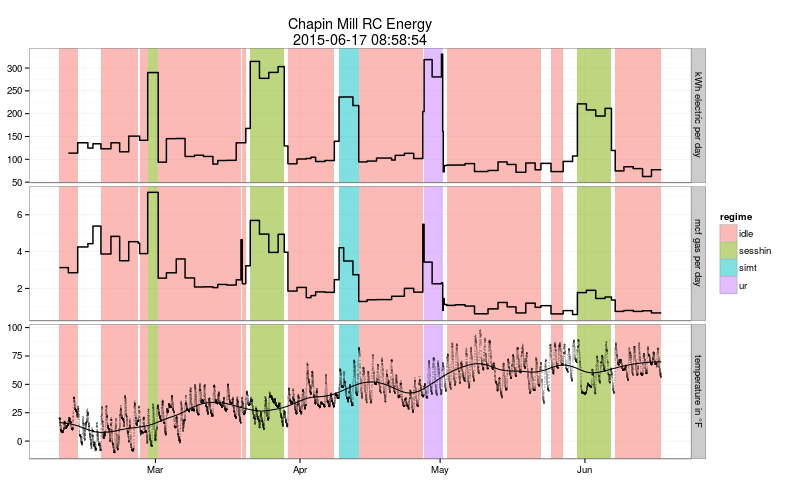
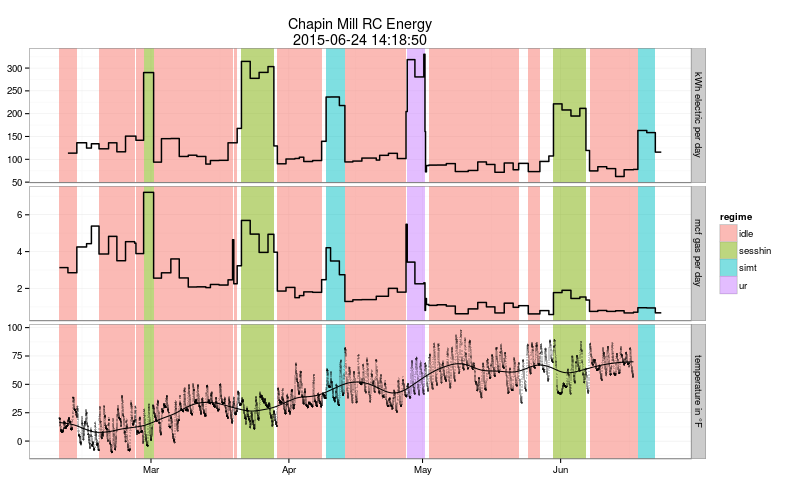
auto commit

Changed region(s): [[0.0625, 0.0625, 0.8438, 1.0]]

diff --git a/index.html b/index.html
@@ -4,7 +4,7 @@
 <html xmlns="http://www.w3.org/1999/xhtml" lang="en" xml:lang="en">
 <head>
 <title></title>
-<!-- 2015-06-17 Wed 08:59 -->
+<!-- 2015-06-24 Wed 14:19 -->
 <meta  http-equiv="Content-Type" content="text/html;charset=utf-8" />
 <meta  name="generator" content="Org-mode" />
 <style type="text/css">
@@ -221,13 +221,25 @@ electricity 1000/24 &asymp; 42 watts.)
 </p>
 
 <p>
-During the time span that the plot covers there was a SIMT retreat
-in early April, a U of R mindfulness retreat in late April and
-several sesshins. Most of the rest of the time the center was idle,
-meaning that there was no activity going on aside from that required
-to maintain a skeleton crew. The plot assigns different colors to
-these different periods. Times for which there is no color at all
-were non-idle in the sense that some extra heating was going on. For
+During the time span that the plot covers there were several
+different types of events including
+</p>
+<ul class="org-ul">
+<li>Rochester Zen Center sesshins,
+</li>
+<li> Satipaññā 
+    Insight Meditation Toronto (simt) retreats and
+</li>
+<li>University of Rochester MBSR (ur) retreats
+</li>
+</ul>
+
+<p>
+Most of the rest of the time the center was idle, meaning that there
+was no activity going on aside from that required to maintain a
+skeleton crew. The plot assigns different colors to these different
+periods. Times for which there is no color at all were non-idle in
+the sense that some extra energy consumption was going on. For
 example the hot tubs may have been running or the zendo may have
 been heated for sesshin setup.
 </p>
@@ -390,10 +402,10 @@ either idle, sesshin, SIMT or UR.)
 <h3 id="sec-1-2">Electricity</h3>
 <div class="outline-text-3" id="text-1-2">
 <p>
-There was no discernable relationship between electricity usage and
-outside air temperature. The data only established separate
-estimates of electricity consumption in kWh per day for idle and
-occupied periods.
+For the period under consideration electricity usage did not vary
+with outside air temperature in a significant way. The data only
+established separate estimates of electricity consumption in kWh
+per day for idle and occupied periods.
 </p>
 
 <table border="2" cellpadding="3">
@@ -659,7 +671,7 @@ where \(y\) is electricity consumption in kWh per day and the
 
 <p>
 <div id="postamble" class="status">
-<p class="date">Created: 2015-06-17 Wed 08:59</p>
+<p class="date">Created: 2015-06-24 Wed 14:19</p>
 <p class="creator"><a href="http://www.gnu.org/software/emacs/">Emacs</a> 24.5.50.1 (<a href="http://orgmode.org">Org</a> mode 8.2.10)</p>
 <p class="validation"><a href="http://validator.w3.org/check?uri=referer">Validate</a></p>
 </div>
